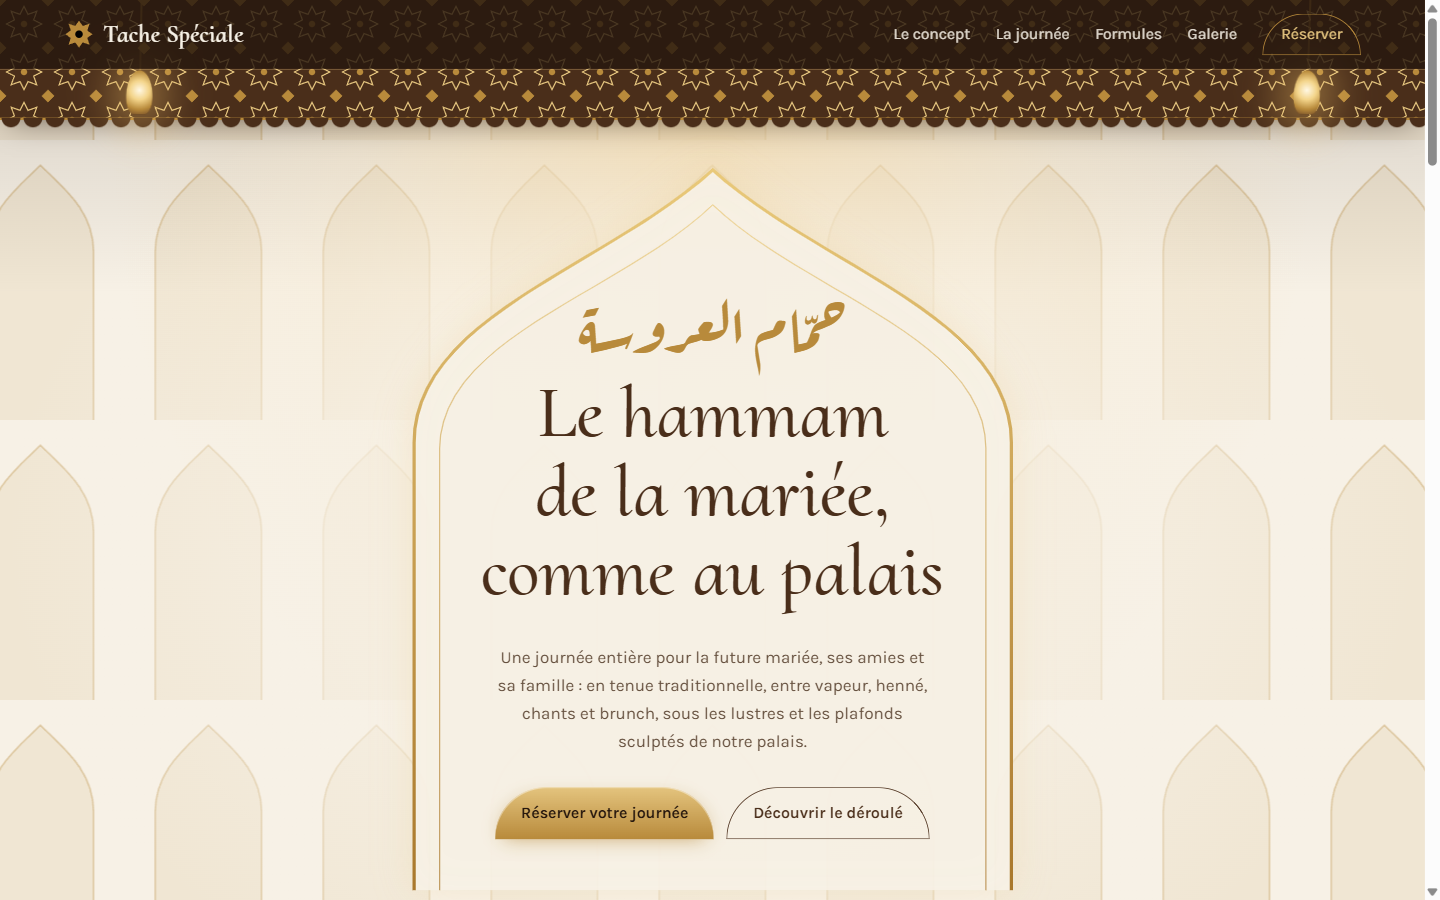
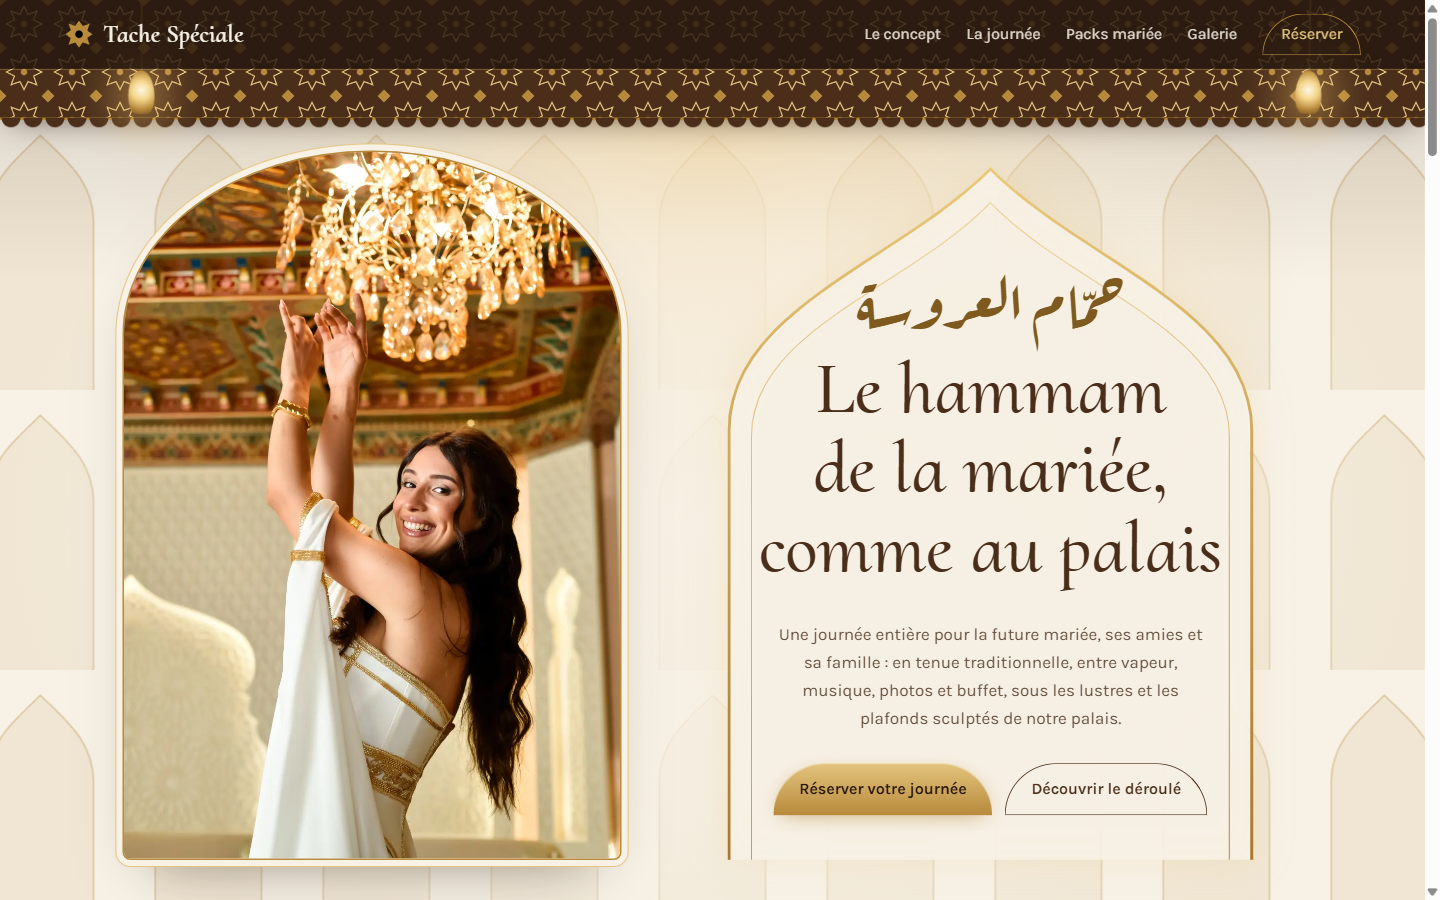
Add the real hammam photos and pack posters
Hero and concept photos, a 12-photo arched gallery with a viewer, and a
link on each pack card to its original Instagram poster.

diff --git a/index.html b/index.html
@@ -46,6 +46,11 @@
         <span class="lantern" style="--x:91%; --len:70px; --d:.8s"></span>
       </div>
 
+      <div class="hero__layout">
+      <figure class="hero__photo">
+        <img src="media/photos/mariee-14.webp" alt="La mariée en tenue blanche et or, bras levés sous le lustre du hammam" width="600" height="900" fetchpriority="high">
+      </figure>
+
       <div class="gate">
         <svg class="gate__arch" viewBox="0 0 600 760" preserveAspectRatio="none" aria-hidden="true">
           <defs>
@@ -76,6 +81,7 @@
           </div>
         </div>
       </div>
+      </div>
 
       <div class="tile-band" aria-hidden="true"></div>
     </section>
@@ -96,6 +102,10 @@
           lustres en cristal. Vous n'avez qu'à venir&nbsp;; nous préparons le reste.
         </p>
       </div>
+
+      <figure class="concept__photo">
+        <img src="media/photos/mariee-05.jpg" alt="La mariée entourée de ses amies en tenue traditionnelle, éventail à la main" loading="lazy" width="600" height="800">
+      </figure>
 
       <ul class="pillars">
         <li>
@@ -197,6 +207,7 @@
           </ul>
           <p class="pack__price"><span data-price>1000</span> DT</p>
           <a class="btn btn--gold pack__book" data-book href="https://wa.me/21653335379" target="_blank" rel="noopener">Réserver ce pack</a>
+          <button class="pack__poster" type="button" data-poster>Voir l'affiche du pack</button>
         </article>
 
         <article class="pack" data-tier="royal">
@@ -210,6 +221,7 @@
           </ul>
           <p class="pack__price"><span data-price>1500</span> DT</p>
           <a class="btn btn--gold pack__book" data-book href="https://wa.me/21653335379" target="_blank" rel="noopener">Réserver ce pack</a>
+          <button class="pack__poster" type="button" data-poster>Voir l'affiche du pack</button>
         </article>
 
         <article class="pack" data-tier="gold">
@@ -223,6 +235,7 @@
           </ul>
           <p class="pack__price"><span data-price>1800</span> DT</p>
           <a class="btn btn--gold pack__book" data-book href="https://wa.me/21653335379" target="_blank" rel="noopener">Réserver ce pack</a>
+          <button class="pack__poster" type="button" data-poster>Voir l'affiche du pack</button>
         </article>
 
         <article class="pack" data-tier="diamond">
@@ -237,25 +250,57 @@
           </ul>
           <p class="pack__price"><span data-price>2500</span> DT</p>
           <a class="btn btn--gold pack__book" data-book href="https://wa.me/21653335379" target="_blank" rel="noopener">Réserver ce pack</a>
+          <button class="pack__poster" type="button" data-poster>Voir l'affiche du pack</button>
         </article>
       </div>
 
       <p class="offers__alt">Vous préférez Instagram&nbsp;? <a href="https://www.instagram.com/tache_speciale" target="_blank" rel="noopener">Écrivez-nous en message privé</a> en indiquant le numéro du pack.</p>
     </section>
 
-    <!-- GALERIE : remplacer chaque .photo--empty par <img src="images/...jpg" alt="..."> -->
+    <!-- GALERIE : ajouter une photo = copier un bloc <button class="shot"> et changer les deux chemins -->
     <section id="galerie" class="gallery">
       <div class="gallery__head">
-        <h2>Dans nos murs</h2>
+        <h2>Hammam 3rousa en images</h2>
         <p>Retrouvez toutes nos journées sur <a href="https://www.instagram.com/tache_speciale" target="_blank" rel="noopener">Instagram</a>.</p>
       </div>
 
       <div class="gallery__grid">
-        <figure class="photo photo--tall photo--empty"><figcaption>La mariée en keswa</figcaption></figure>
-        <figure class="photo photo--empty"><figcaption>Le salon du harem</figcaption></figure>
-        <figure class="photo photo--empty"><figcaption>La salle de vapeur</figcaption></figure>
-        <figure class="photo photo--wide photo--empty"><figcaption>Le cortège et le buffet</figcaption></figure>
-        <figure class="photo photo--tall photo--empty"><figcaption>Détails et lanternes</figcaption></figure>
+        <button class="shot" type="button" data-full="media/photos/mariee-08.webp" aria-label="Agrandir : La mariée touche le lustre en cristal">
+          <img src="media/photos/mariee-08.webp" alt="La mariée touche le lustre en cristal" loading="lazy">
+        </button>
+        <button class="shot" type="button" data-full="media/photos/mariee-02.jpg" aria-label="Agrandir : La mariée devant un panneau de plâtre sculpté en arche">
+          <img src="media/photos/mariee-02.jpg" alt="La mariée devant un panneau de plâtre sculpté en arche" loading="lazy">
+        </button>
+        <button class="shot" type="button" data-full="media/photos/mariee-04.jpg" aria-label="Agrandir : Bijoux, perles et broderies dorées">
+          <img src="media/photos/mariee-04.jpg" alt="Bijoux, perles et broderies dorées" loading="lazy">
+        </button>
+        <button class="shot" type="button" data-full="media/photos/mariee-06.jpg" aria-label="Agrandir : Danse et youyous autour de la mariée">
+          <img src="media/photos/mariee-06.jpg" alt="Danse et youyous autour de la mariée" loading="lazy">
+        </button>
+        <button class="shot" type="button" data-full="media/photos/mariee-10.webp" aria-label="Agrandir : La mariée sur une banquette de velours rouge">
+          <img src="media/photos/mariee-10.webp" alt="La mariée sur une banquette de velours rouge" loading="lazy">
+        </button>
+        <button class="shot" type="button" data-full="media/photos/mariee-07.jpg" aria-label="Agrandir : Tenue brodée d'or devant le miroir doré">
+          <img src="media/photos/mariee-07.jpg" alt="Tenue brodée d'or devant le miroir doré" loading="lazy">
+        </button>
+        <button class="shot" type="button" data-full="media/photos/mariee-01.jpg" aria-label="Agrandir : La mariée en cape devant une porte sculptée">
+          <img src="media/photos/mariee-01.jpg" alt="La mariée en cape devant une porte sculptée" loading="lazy">
+        </button>
+        <button class="shot" type="button" data-full="media/photos/mariee-13.webp" aria-label="Agrandir : Sourire sous le lustre">
+          <img src="media/photos/mariee-13.webp" alt="Sourire sous le lustre" loading="lazy">
+        </button>
+        <button class="shot" type="button" data-full="media/photos/mariee-03.jpg" aria-label="Agrandir : La mariée assise dans le salon ivoire">
+          <img src="media/photos/mariee-03.jpg" alt="La mariée assise dans le salon ivoire" loading="lazy">
+        </button>
+        <button class="shot" type="button" data-full="media/photos/mariee-11.webp" aria-label="Agrandir : La mariée voilée, théière en laiton à ses pieds">
+          <img src="media/photos/mariee-11.webp" alt="La mariée voilée, théière en laiton à ses pieds" loading="lazy">
+        </button>
+        <button class="shot" type="button" data-full="media/photos/mariee-12.webp" aria-label="Agrandir : Devant le grand miroir baroque">
+          <img src="media/photos/mariee-12.webp" alt="Devant le grand miroir baroque" loading="lazy">
+        </button>
+        <button class="shot" type="button" data-full="media/photos/mariee-09.webp" aria-label="Agrandir : Pause sur la banquette sous l'arche">
+          <img src="media/photos/mariee-09.webp" alt="Pause sur la banquette sous l'arche" loading="lazy">
+        </button>
       </div>
     </section>
 
@@ -354,6 +399,11 @@
       </g>
     </symbol>
   </svg>
+
+  <dialog class="lightbox" aria-label="Photo agrandie">
+    <img alt="">
+    <button class="lightbox__close" type="button">Fermer</button>
+  </dialog>
 
   <script src="script.js"></script>
 </body>

diff --git a/styles.css b/styles.css
@@ -826,3 +826,115 @@ main > section:not(.hero) > * {
   .lantern { animation: none; }
   * { transition-duration: 0s !important; }
 }
+
+/* ==========================================================
+   Photos réelles : hero, concept, galerie, visionneuse
+   ========================================================== */
+.hero__layout {
+  display: grid;
+  grid-template-columns: minmax(0, .8fr) minmax(0, 1fr);
+  align-items: end;
+  gap: clamp(24px, 4vw, 64px);
+  width: min(100%, 1180px);
+}
+.hero__layout .gate { width: 100%; justify-self: center; max-width: 560px; }
+.arch-frame,
+.hero__photo,
+.concept__photo {
+  position: relative;
+  margin: 0;
+  overflow: hidden;
+  border: 2px solid var(--gold);
+  border-radius: 50% 50% 8px 8px / 26% 26% 8px 8px;
+  box-shadow: 0 0 0 6px var(--ivory), 0 0 0 7px var(--gold-light), 0 30px 60px -30px rgba(38,23,13,.55);
+  background: var(--ivory-deep);
+}
+.hero__photo { aspect-ratio: 3 / 4.3; max-height: calc(100svh - 190px); justify-self: end; width: 100%; }
+.hero__photo img,
+.concept__photo img { width: 100%; height: 100%; object-fit: cover; object-position: 50% 20%; }
+
+.concept { grid-template-columns: minmax(0, 1.15fr) minmax(0, .85fr); align-items: center; }
+.concept .pillars { grid-column: 1 / -1; }
+.concept__photo { aspect-ratio: 3 / 4; max-width: 420px !important; width: 100%; justify-self: end; }
+
+/* galerie claire, en arches */
+.gallery {
+  background: var(--ivory);
+  background-image: none;
+  color: var(--ink);
+}
+.gallery__head h2 { color: var(--walnut); }
+.gallery__head p { color: var(--ink-soft); }
+.gallery__head a { color: var(--walnut); }
+.gallery .gallery__grid {
+  display: block;
+  columns: 4 220px;
+  column-gap: 16px;
+}
+.shot {
+  display: block;
+  width: 100%;
+  margin: 0 0 16px;
+  padding: 0;
+  border: 1px solid var(--gold);
+  border-radius: 50% 50% 6px 6px / 24% 24% 6px 6px;
+  overflow: hidden;
+  background: var(--ivory-deep);
+  cursor: zoom-in;
+  break-inside: avoid;
+}
+.shot img { width: 100%; height: auto; transition: transform .4s ease; }
+.shot:hover img { transform: scale(1.03); }
+
+.pack__poster {
+  align-self: center;
+  min-height: 40px;
+  margin-top: .5rem;
+  padding: 0 .8rem;
+  font: 600 .92rem var(--font-body);
+  color: var(--blush);
+  text-decoration: underline;
+  text-underline-offset: 3px;
+  background: none;
+  border: 0;
+  cursor: zoom-in;
+  position: relative;
+  z-index: 3;
+}
+
+.lightbox {
+  padding: 0;
+  border: 0;
+  background: transparent;
+  max-width: min(92vw, 760px);
+  overflow: visible;
+}
+.lightbox::backdrop { background: rgba(38,23,13,.88); }
+.lightbox img { display: block; max-height: 86vh; width: auto; max-width: 100%; margin: 0 auto; border: 2px solid var(--gold); border-radius: 8px; }
+.lightbox__close {
+  position: absolute;
+  top: -52px;
+  right: 0;
+  min-height: 44px;
+  padding: 0 1.1rem;
+  font: 600 .95rem var(--font-body);
+  color: var(--walnut-deep);
+  background: var(--gold-light);
+  border: 0;
+  border-radius: 999px;
+  cursor: pointer;
+}
+
+@media (max-width: 980px) {
+  .hero__layout { grid-template-columns: 1fr; justify-items: center; }
+  .hero__photo { order: 2; max-width: 420px; max-height: none; justify-self: center; }
+  .concept { grid-template-columns: 1fr; }
+  .concept__photo { justify-self: center; }
+}
+@media (max-width: 760px) {
+  .gallery .gallery__grid { columns: 2; column-gap: 10px; }
+  .shot { margin-bottom: 10px; }
+}
+@media (prefers-reduced-motion: reduce) {
+  .shot img { transition: none; }
+}

diff --git a/script.js b/script.js
@@ -54,6 +54,8 @@
       var d = card.querySelector('[data-duration]');
       if (d) d.textContent = p[2];
       card.querySelector('[data-size]').textContent = size;
+      card.querySelector('[data-poster]').setAttribute('data-full',
+        'media/packs/pack-' + (p[0] < 10 ? '0' : '') + p[0] + '.jpg');
       var msg = 'Bonjour, je souhaite réserver le Pack ' + p[0] + ' (' + NAMES[tier] + ', ' +
         size + ' personnes, ' + p[1] + ' DT) pour mon hammam de mariée.';
       card.querySelector('[data-book]').href = 'https://wa.me/21653335379?text=' + encodeURIComponent(msg);
@@ -65,4 +67,21 @@
   });
   var checked = document.querySelector('input[name="group"]:checked');
   render(checked ? checked.value : 10);
+})();
+
+// Visionneuse : photos de la galerie et affiches des packs.
+(function () {
+  var box = document.querySelector('.lightbox');
+  if (!box || !box.showModal) return;
+  var img = box.querySelector('img');
+  document.addEventListener('click', function (e) {
+    var trigger = e.target.closest('[data-full]');
+    if (!trigger) return;
+    var inner = trigger.querySelector('img');
+    img.src = trigger.getAttribute('data-full');
+    img.alt = inner ? inner.alt : trigger.textContent.trim();
+    box.showModal();
+  });
+  box.querySelector('.lightbox__close').addEventListener('click', function () { box.close(); });
+  box.addEventListener('click', function (e) { if (e.target === box) box.close(); });
 })();
